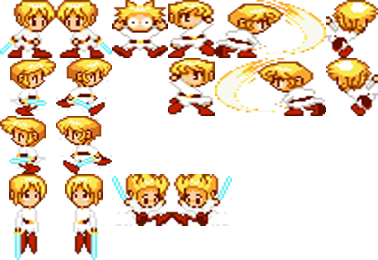
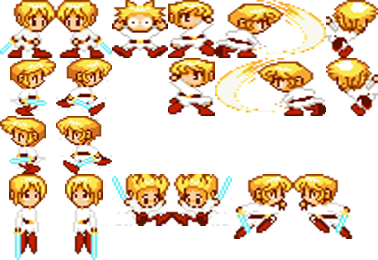
improve jump animations

Changed region(s): [[0.6111, 0.6462, 0.9312, 0.9231]]

diff --git a/src/sandbox/core/entities/Hero.java b/src/sandbox/core/entities/Hero.java
@@ -19,6 +19,8 @@ public class Hero extends WorldObject implements Updatable {
     private Sprite sprite;
 
     public float alpha;
+    
+    public boolean isIdle;
 
     public boolean isFacingLeft;
     public boolean isFacingRight;
@@ -203,8 +205,14 @@ public class Hero extends WorldObject implements Updatable {
 
             if (isMovingRight) {
                 isJumpingRight = true;
+                sprite.setCurrentAnimation(null);
+                sprite.setSprite("hero_jump_move_right");
+                
             } else if (isMovingLeft) {
                 isJumpingLeft = true;
+                sprite.setCurrentAnimation(null);
+                sprite.setSprite("hero_jump_move_left");
+                
             } else {
                 
                 // jump straight

diff --git a/src/sandbox/core/GoblinzDungeon.java b/src/sandbox/core/GoblinzDungeon.java
@@ -15,7 +15,7 @@ import forplay.core.Image;
 /**
  * 
  * @author ahingsaka
- * @version 0.9.1
+ * @version 0.9.2
  */
 public class GoblinzDungeon implements Game {
 
